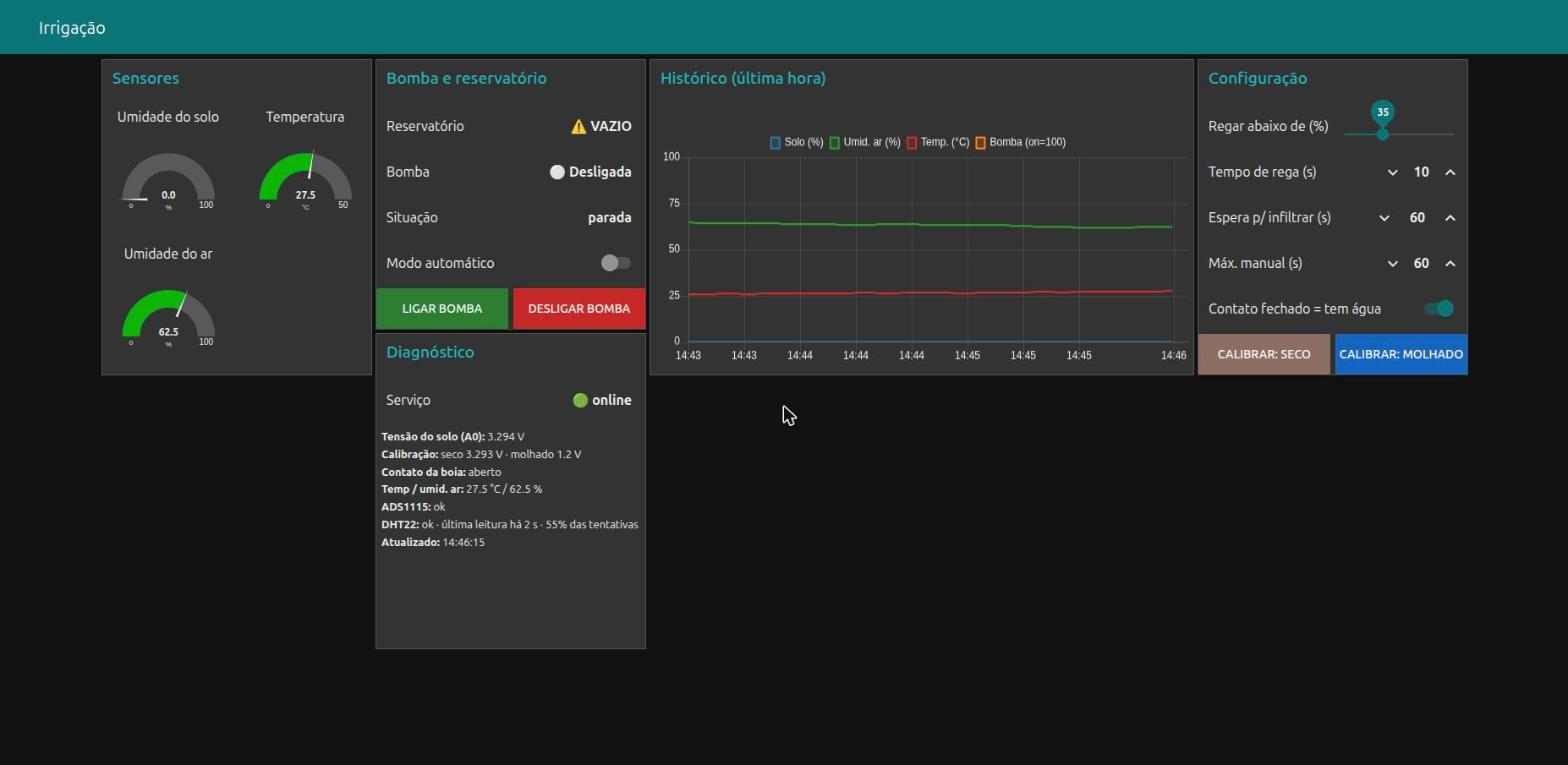
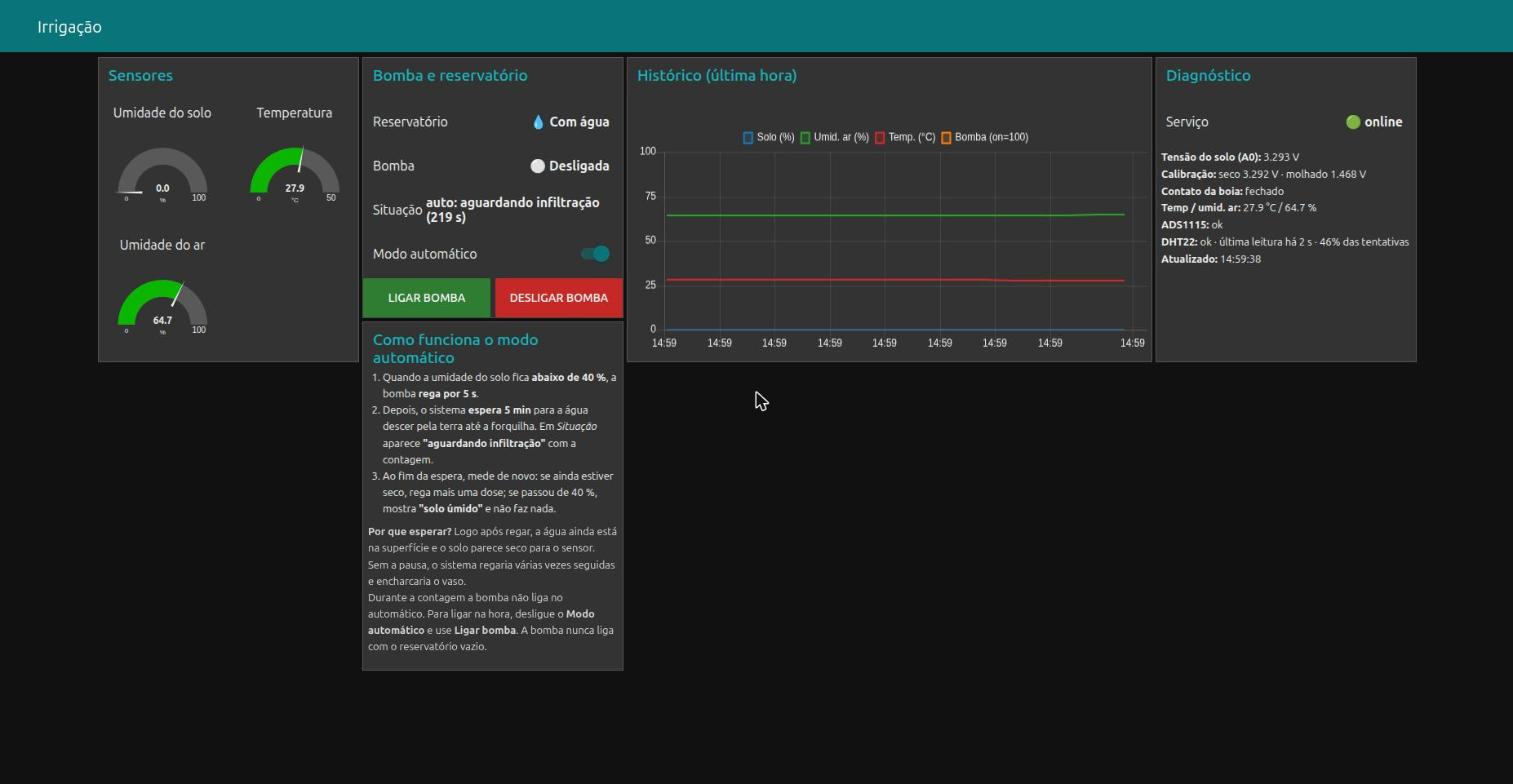
Dashboard: quadro explicando o modo automático e IDs estáveis no fluxo
O quadro mostra os valores reais de limiar, tempo de rega e espera.
IDs dos nós passam a ser derivados do nome, evitando erros do
dashboard no deploy a quente. Imagem do README atualizada.

diff --git a/pi/gerar_fluxo.py b/pi/gerar_fluxo.py
@@ -1,15 +1,27 @@
 #!/usr/bin/env python3
 """Gera fluxo_irrigacao.json (aba do Node-RED + dashboard v1 node-red-dashboard)."""
+import hashlib
 import json
 import os
 
 TAB = "a1a1000000000001"
-nid = iter(f"a1a1{i:012x}" for i in range(2, 1000))
 nodes = []
 
 
+def _id(type_, kw):
+    """ID estável (prefixo a1a1 + hash do tipo/nome): inserir um nó novo não muda
+    o ID dos outros, o que evitava erros do dashboard no deploy a quente."""
+    chave = f"{type_}|{kw.get('name') or kw.get('label') or kw.get('title') or ''}"
+    base = "a1a1" + hashlib.sha1(chave.encode()).hexdigest()[:12]
+    i, nid = 0, base
+    while any(n["id"] == nid for n in nodes):
+        i += 1
+        nid = "a1a1" + hashlib.sha1(f"{chave}|{i}".encode()).hexdigest()[:12]
+    return nid
+
+
 def node(type_, x=0, y=0, wires=None, z=TAB, **kw):
-    n = {"id": next(nid), "type": type_, **kw}
+    n = {"id": _id(type_, kw), "type": type_, **kw}
     if z:
         n["z"] = z
         n["x"], n["y"] = x, y
@@ -39,6 +51,7 @@ g_sens = grupo("Sensores", 1)
 g_bomba = grupo("Bomba e reservatório", 2)
 g_hist = grupo("Histórico (última hora)", 3, 12)
 g_diag = grupo("Diagnóstico", 4)
+g_ajuda = grupo("Como funciona o modo automático", 5)
 
 # ------------------------------------------------------------ saída de comandos
 mqtt_out = node("mqtt out", 1150, 660, name="irrigacao/cmd", topic="irrigacao/cmd",
@@ -82,6 +95,31 @@ w_diag = node("ui_template", 760, 360, group=g_diag, name="Detalhes", order=2, w
               storeOutMessages=True, fwdInMessages=False, resendOnRefresh=True,
               templateScope="local", className="", wires=[[]])
 
+AJUDA = """
+<div style="font-size:13px;line-height:1.55">
+  <ol style="margin:0 0 8px 0;padding-left:18px">
+    <li>Quando a umidade do solo fica <b>abaixo de {{msg.payload.limiar}} %</b>,
+        a bomba <b>rega por {{msg.payload.tempo_rega}} s</b>.</li>
+    <li>Depois, o sistema <b>espera {{msg.payload.tempo_espera / 60 | number:0}} min</b>
+        para a água descer pela terra até a forquilha.
+        Em <i>Situação</i> aparece <b>"aguardando infiltração"</b> com a contagem.</li>
+    <li>Ao fim da espera, mede de novo: se ainda estiver seco, rega mais uma dose;
+        se passou de {{msg.payload.limiar}} %, mostra <b>"solo úmido"</b> e não faz nada.</li>
+  </ol>
+  <div style="opacity:.85">
+    <b>Por que esperar?</b> Logo após regar, a água ainda está na superfície e o solo
+    parece seco para o sensor. Sem a pausa, o sistema regaria várias vezes seguidas e
+    encharcaria o vaso.<br>
+    Durante a contagem a bomba não liga no automático. Para ligar na hora,
+    desligue o <b>Modo automático</b> e use <b>Ligar bomba</b>.
+    A bomba nunca liga com o reservatório vazio.
+  </div>
+</div>
+"""
+w_ajuda = node("ui_template", 760, 400, group=g_ajuda, name="Como funciona", order=1, width=6,
+               height=7, format=AJUDA.strip(), storeOutMessages=True, fwdInMessages=False,
+               resendOnRefresh=True, templateScope="local", className="", wires=[[]])
+
 # ------------------------------------------------------------ controles (entrada e saída)
 wrap = {}
 
@@ -116,7 +154,7 @@ botao("Desligar bomba", g_bomba, 6, {"bomba": False}, 500, "#c62828")
 # ------------------------------------------------------------ distribuição do estado
 DISTRIB = r"""
 const d = msg.payload;
-const out = new Array(10).fill(null);
+const out = new Array(11).fill(null);
 const ult = context.get('ult') || {};
 // envia só quando muda (evita brigar com o usuário mexendo no controle)
 function seMudou(i, chave, valor) {
@@ -148,6 +186,11 @@ out[6] = { payload: d.motivo };
 
 const c = d.cfg || {};
 seMudou(7, 'modo', c.modo);
+const ajuda = `${c.limiar}|${c.tempo_rega}|${c.tempo_espera}`;
+if (ult.ajuda !== ajuda) {
+    ult.ajuda = ajuda;
+    out[10] = { payload: { limiar: c.limiar, tempo_rega: c.tempo_rega, tempo_espera: c.tempo_espera } };
+}
 
 const e = d.erros || {};
 out[8] = { payload: [
@@ -167,10 +210,10 @@ context.set('ult', ult);
 return out;
 """
 
-f_dist = node("function", 470, 300, name="Distribui estado", func=DISTRIB.strip(), outputs=10,
+f_dist = node("function", 470, 300, name="Distribui estado", func=DISTRIB.strip(), outputs=11,
               timeout=0, noerr=0, initialize="", finalize="", libs=[],
               wires=[[w_solo], [w_temp], [w_umid], [w_chart], [w_res], [w_bomba], [w_motivo],
-                     [w_modo], [w_diag], [w_online]])
+                     [w_modo], [w_diag], [w_online], [w_ajuda]])
 node("mqtt in", 220, 300, name="irrigacao/estado", topic="irrigacao/estado", qos="1",
      datatype="json", broker=broker, nl=False, rap=True, rh=0, inputs=0, wires=[[f_dist]])
 
